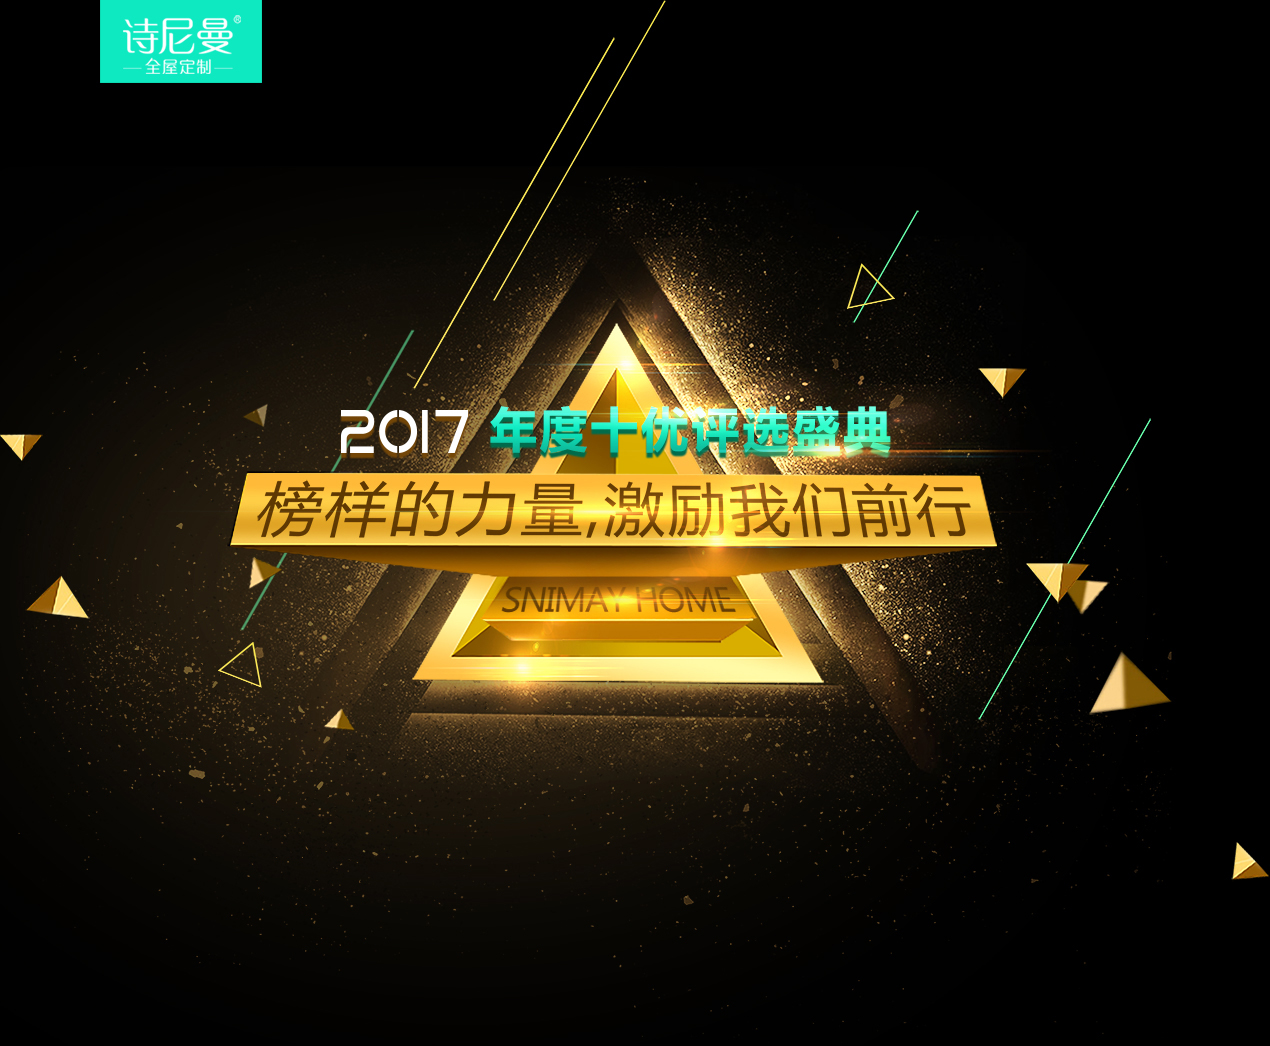
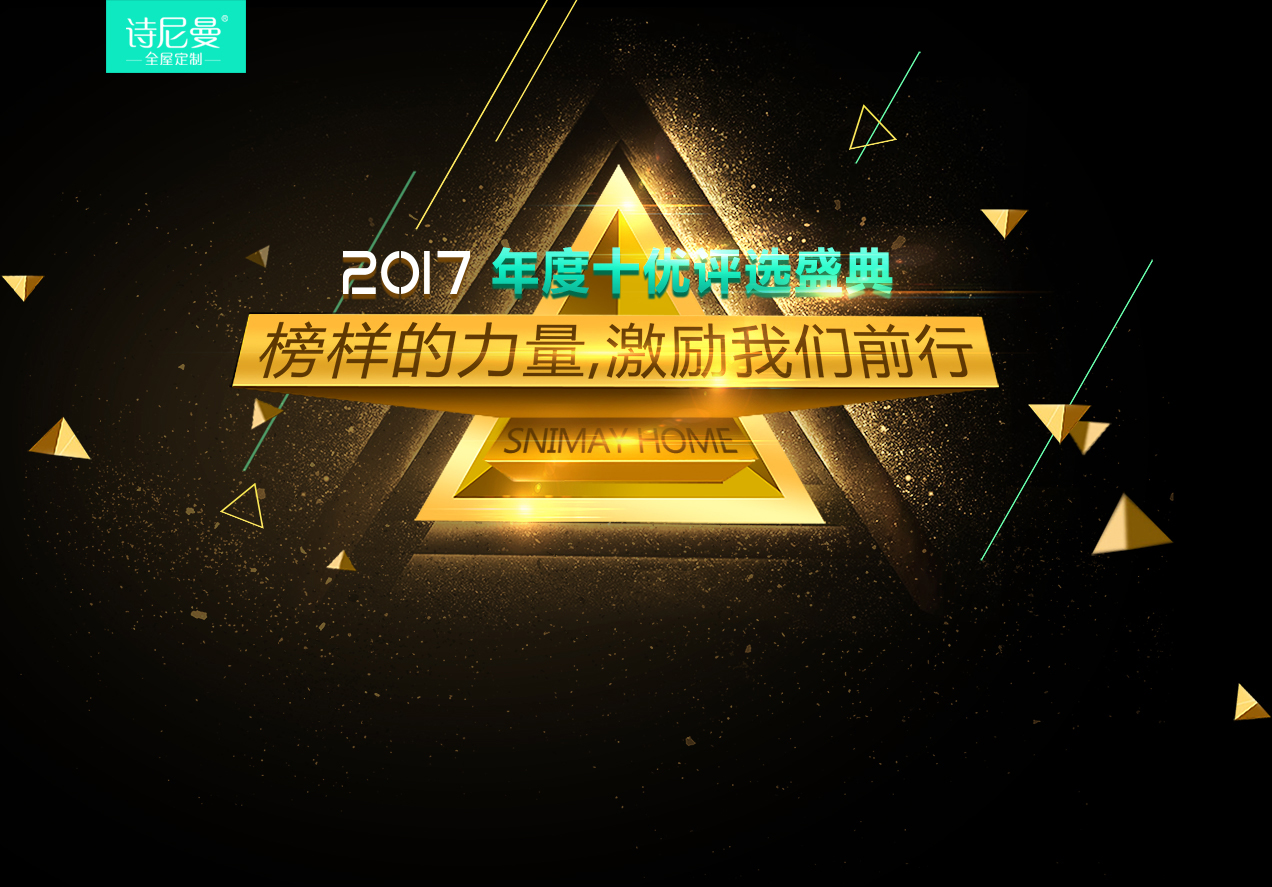
1048

diff --git a/css/apply.css b/css/apply.css
@@ -29,7 +29,7 @@ a {
     position: absolute;
     width: 100%;
     left: 0;
-    top: 760px; }
+    top: 610px; }
     #topImg .topText p {
       text-align: center;
       font-size: 19.93px;
@@ -37,7 +37,7 @@ a {
       line-height: 35.93px; }
   #topImg .time {
     position: absolute;
-    top: 884px;
+    top: 734px;
     width: 1120px;
     left: 36px; }
     #topImg .time > img {

diff --git a/css/index.css b/css/index.css
@@ -29,7 +29,7 @@ a {
     position: absolute;
     width: 100%;
     left: 0;
-    top: 760px; }
+    top: 610px; }
     #topImg .topText p {
       text-align: center;
       font-size: 19.93px;
@@ -37,7 +37,7 @@ a {
       line-height: 35.93px; }
   #topImg .time {
     position: absolute;
-    top: 884px;
+    top: 734px;
     width: 1120px;
     left: 36px; }
     #topImg .time > img {
